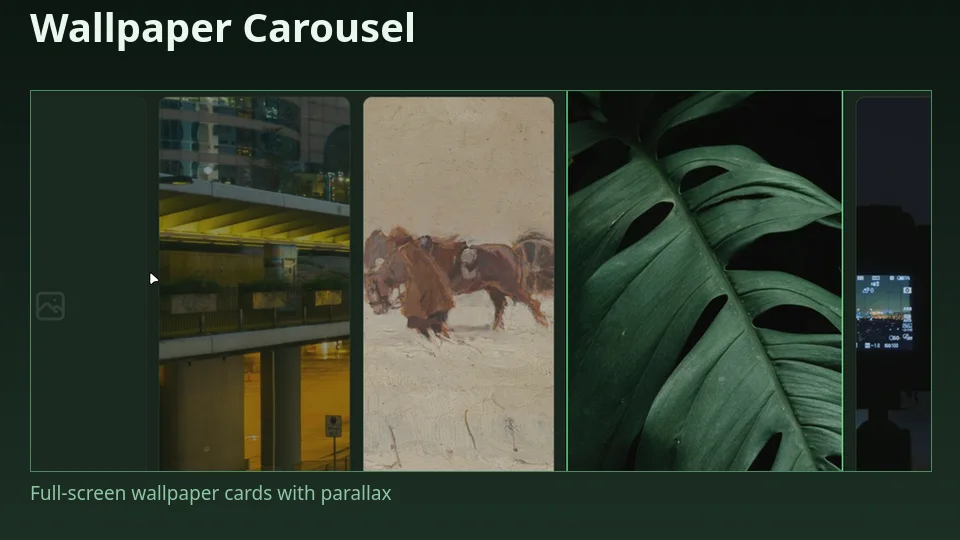
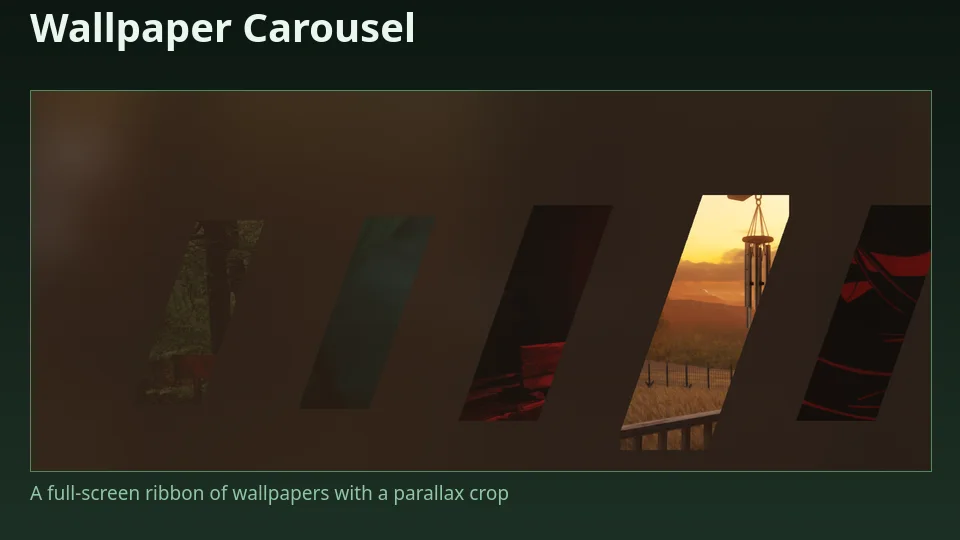
docs: regenerate the store thumbnail

diff --git a/wallpaper-carousel/README.md b/wallpaper-carousel/README.md
@@ -1,10 +1,14 @@
 # Wallpaper Carousel
 
-A full-screen wallpaper carousel for Noctalia: a ribbon of vertical cards that overlap
-like a 3D strip, with a parallax crop inside every card and a bar button that opens it.
+A full-screen wallpaper carousel for Noctalia: a ribbon of vertical cards leaning to the
+right, the selected wallpaper highlighted and slightly larger, and a parallax crop that
+reveals a different part of every image as the ribbon slides.
 
-The design follows the "Resizeable wallpaper carousel with parallax effect" by
-u/HyperSpazdik and the `motor-dev/wallpaperCarousel` plugin.
+The design follows **"Resizeable wallpaper carousel with parallax effect"** by
+[u/HyperSpazdik](https://www.reddit.com/r/hyprland/comments/1vjqvrr/resizeable_wallpaper_carousel_with_parallax_effect/)
+and the plugin it grew into, [motor-dev/wallpaperCarousel](https://github.com/motor-dev/wallpaperCarousel)
+(which itself credits [ilyamiro](https://github.com/ilyamiro/nixos-configuration) for the original
+wallpaper picker).
 
 ## Plugin
 
@@ -21,30 +25,27 @@ The following executables must be installed and available on `PATH`:
 - `python-pillow` — the imaging library the thumbnail helper needs.
 
 The plugin reads your Noctalia wallpaper folder (or the folder set in its settings) and
-caches the card images in
+caches one preview per image and per parallax position in
 `~/.local/state/noctalia/plugins/data/faminec/wallpaper-carousel/thumbs/`.
 
 ## Usage
 
 Add the `button` bar icon and click it to open the carousel. The panel opens full screen
-with the wallpapers laid out as a ribbon of cards; the card in the centre is the
-selected one, larger and fully opaque, and the rest fade out towards the edges.
+with the wallpapers as a skewed ribbon; the card under the pointer lights up, and clicking a
+card applies it.
 
 Keyboard:
 
 | Key | Action |
 | --- | --- |
-| `Left` / `Right` | Move the selection (hold to repeat) |
+| `Left` / `Right` (or `h` / `l`, `j` / `k`) | Move the selection — holding the key repeats |
 | `Home` / `End` | Jump to the first or the last wallpaper |
-| `Enter` / `Space` | Apply the selected wallpaper |
+| `Enter` / `space` | Apply the selected wallpaper |
 | `Esc` | Close the carousel |
-| `r` | Rescan the folder |
+| `r` | Pick a random wallpaper |
 
 The mouse wheel moves through the carousel as well: one notch per wallpaper, in both
-directions. The wheel is captured by an invisible scroll view that the ribbon lives in,
-so the gesture works anywhere over the panel.
-
-Clicking a card selects it and applies it.
+directions.
 
 The panel can also be opened directly:
 
@@ -60,18 +61,25 @@ Configure the plugin in **Settings → Plugins → Wallpaper Carousel**.
 | --- | --- | --- | --- |
 | `directory` | `string` | empty | Wallpaper folder. Empty uses Noctalia's configured wallpaper folder. |
 | `glyph` | `glyph` | `wallpaper` | Bar icon. |
-| `card_width` | `int` | `300` | Width of a card, in pixels. |
-| `card_height` | `int` | `420` | Height of a card, in pixels. |
-| `skew` | `double` | `0.35` | Skew of the card, from `0` (straight) to `0.8`. |
-| `parallax` | `double` | `1.0` | How much the crop inside a card shifts with its position. |
-| `selected_scale` | `double` | `1.08` | Scale of the selected card. |
-| `base_scale` | `double` | `0.75` | Scale of the cards at the edge of the ribbon. |
-| `hover_boost` | `double` | `0.2` | Extra scale while the pointer is over a card. |
-| `scrim` | `double` | `0.0` | Darkening applied to the background, from `0` to `0.9`. |
+| `card_width` | `int` | `250` | Width of the selected card, in logical pixels. |
+| `card_height` | `int` | `350` | Height of the selected card, in logical pixels. |
+| `skew` | `double` | `0.35` | How much the cards lean to the right. `0` gives straight cards. |
+| `parallax` | `double` | `1.0` | How much each thumbnail crop shifts with the card's position. |
+| `selected_scale` | `double` | `1.08` | Size of the selected card relative to the side cards. |
+| `base_scale` | `double` | `0.75` | Size of the cards around the selected one. |
+| `hover_boost` | `double` | `0.2` | How much the card under the pointer grows and brightens. |
+| `scrim` | `double` | `0.0` | Dark veil over the desktop. `0` keeps the background fully transparent. |
+| `wheel` | `bool` | `true` | Move the carousel with the mouse wheel. |
 | `close_on_apply` | `bool` | `true` | Close the carousel after applying a wallpaper. |
 | `apply_all` | `bool` | `true` | Apply to every monitor; when off, only to the focused monitor. |
-| `show_filenames` | `bool` | `true` | Show the selected file name in the footer. |
+| `show_filenames` | `bool` | `true` | Show the selected file name in the panel footer. |
 | `chrome` | `bool` | `false` | Show the footer with the file name and the apply button. |
+
+### Transparency
+
+The shell draws the panel surface itself, so the wallpaper only shows through if the
+panel is translucent. Set **Settings → Shell → Panel → Transparency** to `glass` (or `soft`)
+for that; the plugin's own `scrim` setting then adds the dark veil on top.
 
 ## IPC
 
@@ -84,12 +92,17 @@ noctalia msg plugin faminec/wallpaper-carousel:panel all prev
 
 ## Notes
 
-- The cards are generated with Pillow at the configured size, as RGBA PNGs with the
-  wallpaper cropped inside a parallelogram, so the skew of the ribbon is baked into the
-  image. The parallax crop is baked in as well, in three positions per wallpaper.
-- The previews are written as PNG and not WebP: Noctalia's image loader ships the JPEG,
-  PNG and SVG handlers only, so a WebP preview would render as an empty placeholder.
-- The plugin only reads the wallpaper folder and writes its own cache directory; it
-  makes no network requests.
-- The card images are generated in the background; a card shows a placeholder until its
-  image is ready.
+- Noctalia's declarative UI has no transform props, so the cards' lean is baked into the
+  preview: the helper renders the wallpaper upright and masks it with the parallelogram,
+  which is what makes the row read as a 3D ribbon. The previews are RGBA PNGs (the JPEG,
+  PNG and SVG handlers are the only image formats Noctalia ships).
+- The previews are generated in three parallax positions per image and cached on disk, so
+  navigating is instant after the first pass. The cards show a placeholder while their
+  preview is being generated.
+- The panel never reads the keyboard's auto-repeat: a held arrow key delivers one press and
+  one release, so the repeat is reproduced from the frame tick instead.
+- The mouse wheel is captured by a `ui.scroll` that wraps the ribbon. Its vertical movement
+  is cancelled by the scroll's own padding, so the ribbon stays in place while the wheel
+  drives the carousel sideways.
+- The plugin only reads the wallpaper folder and writes its own cache directory; it makes no
+  network requests.
